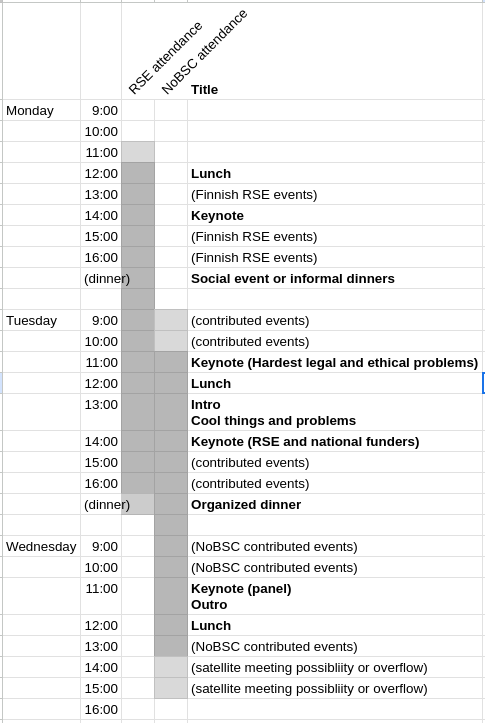
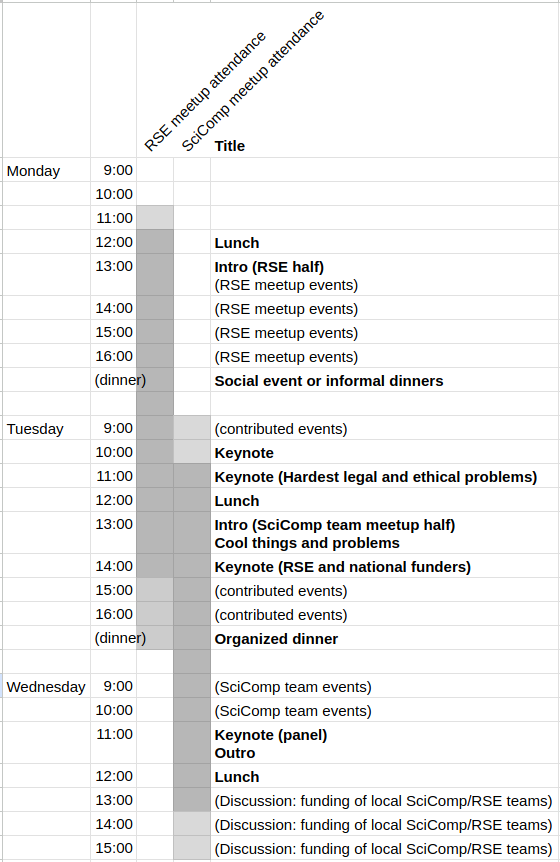
More updates, change other NoBSC mentionts to SciComp team meetup

diff --git a/content/about.rst b/content/about.rst
@@ -4,7 +4,7 @@ About
 Organizers
 ----------
 
-* Richard Darst, Aalto University (co-lead, NoBSC part)
+* Richard Darst, Aalto University (co-lead, RC/SciComp part)
 * Samantha Wittke, CSC - IT Center for Science (co-lead, RSE-FI)
 * Local volunteers: open
 
@@ -54,14 +54,16 @@ Now, in 2025, we are trying to meet again in person.  Hopefully there
 are the best parts from NeIC conferences, NeIC all-hands meetings,
 and NordicHPC, with even more people welcome to attend.
 
-In addition, we have noticed that Research Software Engineering
-community, or "researchers who code" appreciate the connection to each
-other too.  Samanthas fellowship with the Software Sustainability
-Institute looks at exactly that.  Part of the fellowship is the
-contribution to the international RSE survey to get to know the
-Finnish and Nordic community needs a bit better.  A short lunch
-meeting of RSE enthusiasts in Espoo to celebrate the international RSE
-day on October 9th 2025 was a good start to connect. For the Finnish
-RSE meetup, we aim to also get together RSE enthusiasts from all over
-the country, share what we do, learn from each other and also learn
-about the needs and wishes of the community.
+In addition to the SciComp team meetup, we have noticed that Research
+Software Engineering community, or "researchers who code" appreciate
+the connection to each other too - and there is a lot of connections
+and career movement between the two groups.  Samantha's fellowship
+with the Software Sustainability Institute looks at exactly that.
+Part of the fellowship is the contribution to the international RSE
+survey to get to know the Finnish and Nordic community needs a bit
+better.  A short lunch meeting of RSE enthusiasts in Espoo to
+celebrate the international RSE day on October 9th 2025 was a good
+start to connect. For the Finnish RSE meetup, we aim to also get
+together RSE enthusiasts from all over the country, share what we do,
+learn from each other and also learn about the needs and wishes of the
+community.

diff --git a/content/index.rst b/content/index.rst
@@ -62,9 +62,9 @@ Schedule (general plan)
 .. seealso:: :doc:`schedule`
 
 * Day 0 (Su, 1 Feb 2026): If anyone arrives early, grilling dinner in a Finnish forest (if enough people want to brave the cold).
-* Day 1 (Mo, 2 Feb 2026): Finnish RSE meetup
-* Day 2 (Tu, 3 Feb 2026): RSE/NoBSC day: events, lunch, evening dinner, some social activities scattered between.
-* Day 3 (We: 4 Feb 2026): events 9-12, lunch.
+* Day 1 (Mo, 2 Feb 2026): RSE meetup
+* Day 2 (Tu, 3 Feb 2026): RSE/SciComp overlap day: events, lunch, evening dinner, some social activities scattered between.
+* Day 3 (We: 4 Feb 2026): SciComp team meetup: events 9-12, lunch.
 
 Example sessions:
 
